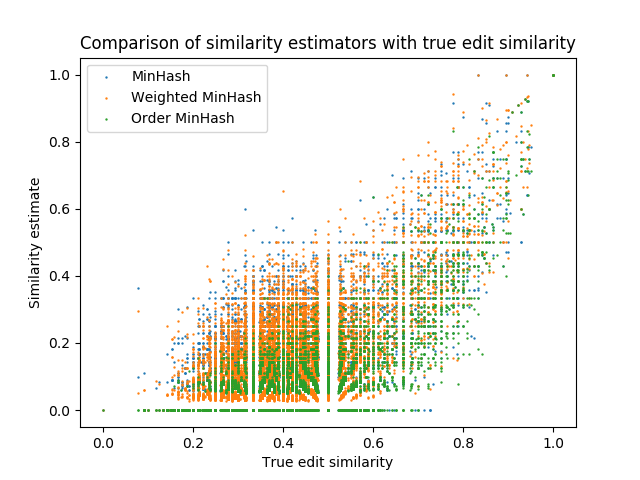
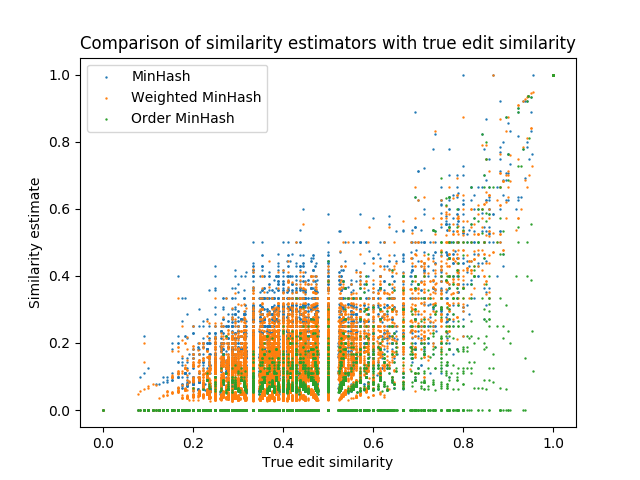
new plots

diff --git a/plot_similarity_graph.py b/plot_similarity_graph.py
@@ -39,22 +39,19 @@ def get_edit_distance_res(g1, g2):
     return edit_similarity(g1, g2)
 
 
-def get_minhash_res(g1, g2, sketch_size=SKETCH_SIZE):
+def get_minhash_res(g1, g2, sketch_size=SKETCH_SIZE, kmer_length=KMER_LENGTH):
     '''get the edit distance for every genome parit in synthetic data'''
-    return jaccard_hash(minhash(string_to_kmers(g1, KMER_LENGTH), sketch_size), minhash(string_to_kmers(g2, KMER_LENGTH), sketch_size))
+    return jaccard_hash(minhash(string_to_kmers(g1, kmer_length), sketch_size), minhash(string_to_kmers(g2, kmer_length), sketch_size))
 
-def get_weighted_minhash_res(g1, g2):
+def get_weighted_minhash_res(g1, g2, sketch_size=SKETCH_SIZE, kmer_length=KMER_LENGTH):
     '''get the edit distance for every genome parit in synthetic data'''
-    return weighted_jaccard_hash(weighted_minhash(string_to_kmers(g1, KMER_LENGTH), SKETCH_SIZE), weighted_minhash(string_to_kmers(g2, KMER_LENGTH), SKETCH_SIZE))
+    return weighted_jaccard_hash(weighted_minhash(string_to_kmers(g1, kmer_length), sketch_size), weighted_minhash(string_to_kmers(g2, kmer_length), sketch_size))
 
-def get_order_minhash_res(g1, g2):
+def get_order_minhash_res(g1, g2, sketch_size=SKETCH_SIZE, kmer_length=KMER_LENGTH):
     '''get the edit distance for every genome parit in synthetic data'''
-    s1 = order_minhash(string_to_kmers(g1, KMER_LENGTH), SKETCH_SIZE)
-    s2 = order_minhash(string_to_kmers(g2, KMER_LENGTH), SKETCH_SIZE)
-
-    s1 = [hash(tuple(x)) for x in s1]
-    s2 = [hash(tuple(x)) for x in s2]
-    return edit_similarity(s1, s2)
+    s1 = order_minhash(string_to_kmers(g1, kmer_length), sketch_size)
+    s2 = order_minhash(string_to_kmers(g2, kmer_length), sketch_size)
+    return hamming_similarity(s1, s2)
 
 
 def gen_methods_comparison():
@@ -100,14 +97,38 @@ def gen_sketch_size_comparison():
     for distances in vals:
         plt.scatter(edit_dis_list, distances, s=1)
     plt.title('Varying sketch size')
-    plt.legend(['MinHash k={}'.format(k) for k in sketch_size_range])
+    plt.legend(['MinHash $m$={}'.format(k) for k in sketch_size_range])
     plt.ylabel('Similarity estimate')
     plt.xlabel('True edit similarity')
     plt.savefig('sketch_size_comparison.png') 
 
+def gen_kmer_length_comparison():
+    
+    N = 20
+    genome = gen_string_universe(30, 40, N, N*1000)
+
+    sketch_size_range = [2, 3, 4, 6, 8]
+    vals = [[] for _ in sketch_size_range]
+    edit_dis_list = []
+
+    for _ in tqdm(range(5000)):
+        g1 = choice(genome)
+        g2 = choice(genome)
+        edit_dis_list.append(get_edit_distance_res(g1, g2))
+        for i, sketch_size in enumerate(sketch_size_range):
+            vals[i].append(get_minhash_res(g1, g2, kmer_length=sketch_size))
+    for distances in vals:
+        plt.scatter(edit_dis_list, distances, s=1)
+    plt.title('Varying $k$-mer length')
+    plt.legend(['MinHash $k$={}'.format(k) for k in sketch_size_range])
+    plt.ylabel('Similarity estimate')
+    plt.xlabel('True edit similarity')
+    plt.savefig('kmer_length_comparison.png') 
+
 def main():
     gen_methods_comparison()
     gen_sketch_size_comparison()
+    gen_kmer_length_comparison()
 
 if __name__=="__main__":
     main()
